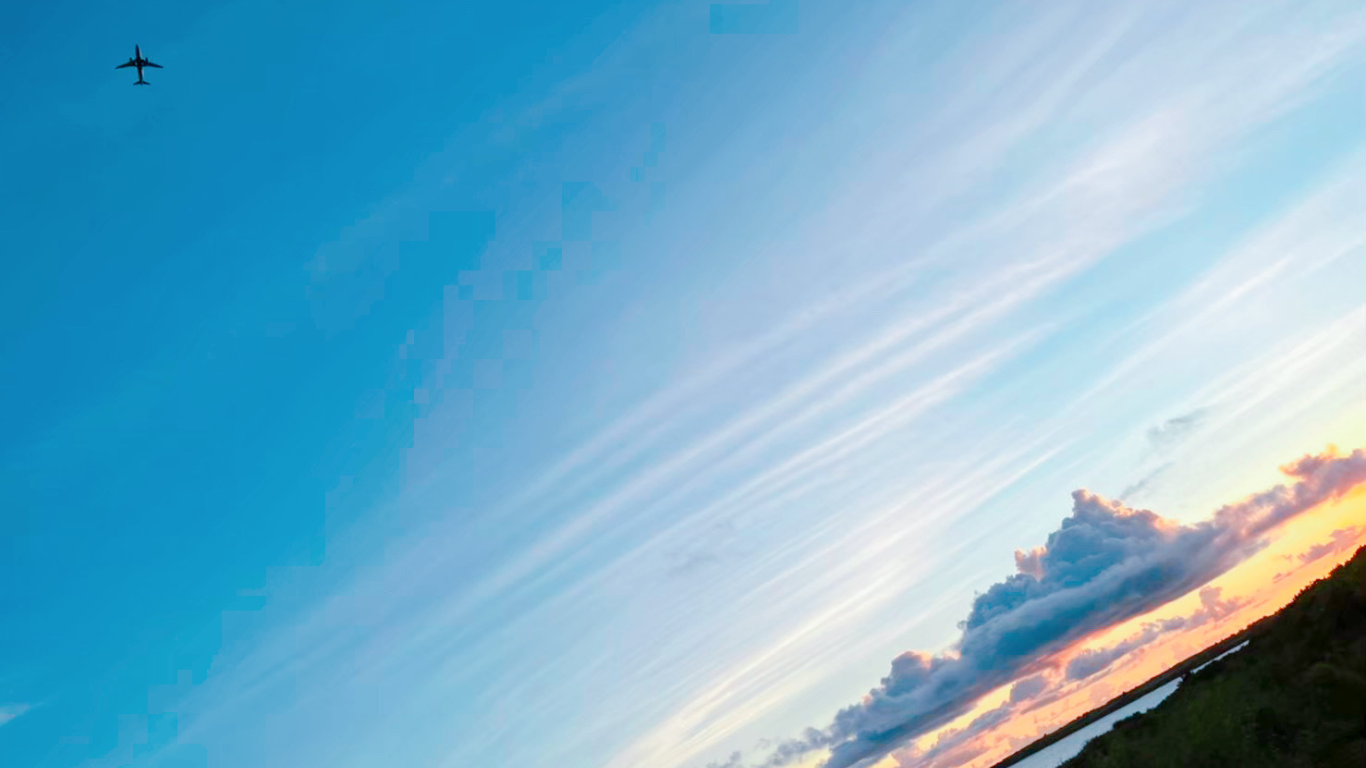
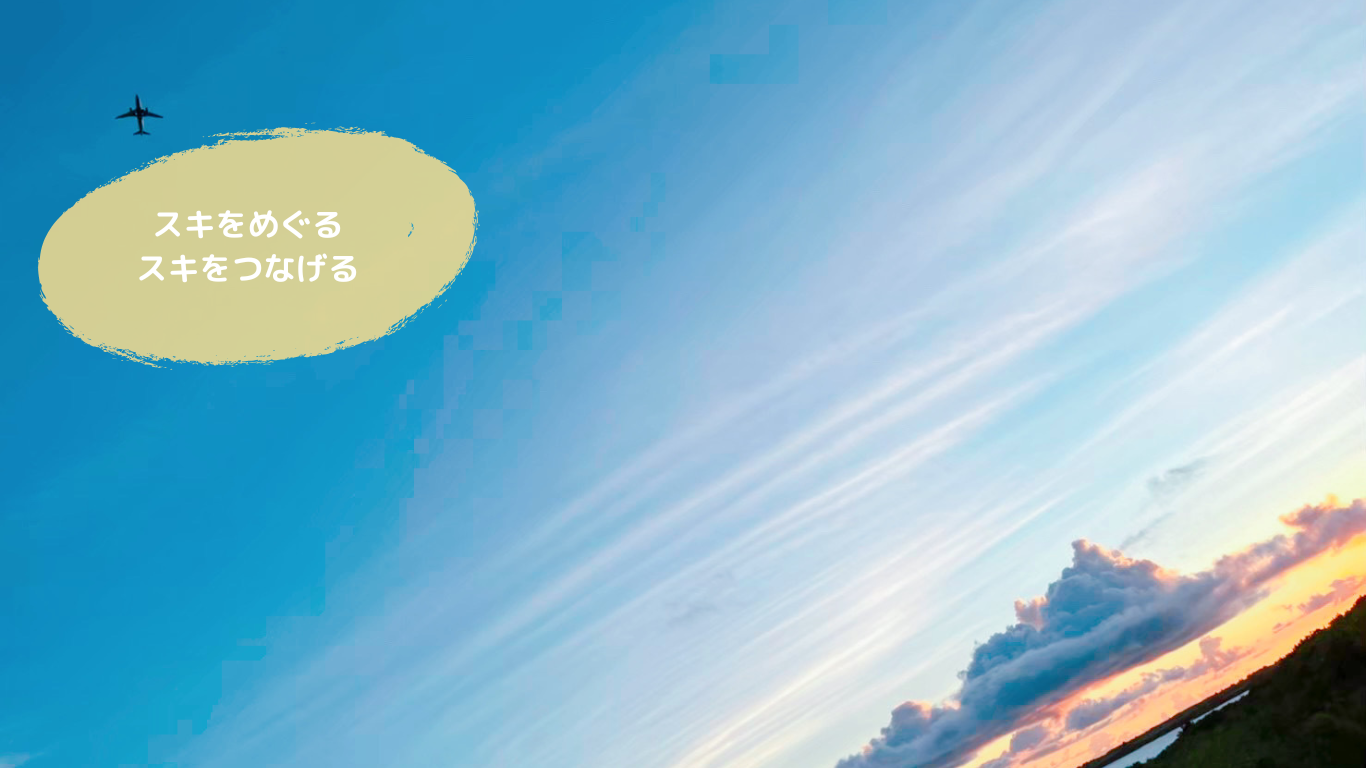
0216-2

diff --git a/src/pages/index.tsx b/src/pages/index.tsx
@@ -26,10 +26,10 @@ export default function Home() {
             height={400} // 画像の高さ
             layout="responsive" // 画像をレスポンシブに表示
           />
-          <div className={styles.textOverlay}>
+          {/* <div className={styles.textOverlay}>
             <div className={styles.ellipseBackground}></div>
             <p>スキをめぐる</p><p>スキをつなげる</p>
-          </div>
+          </div> */}
         </div>
         <div id="about">
           <About />
